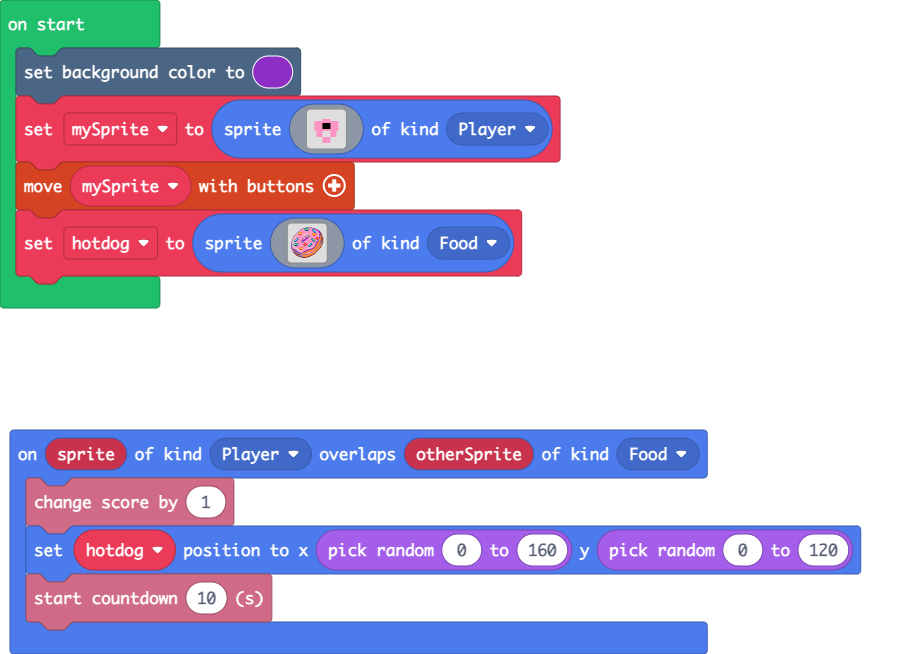
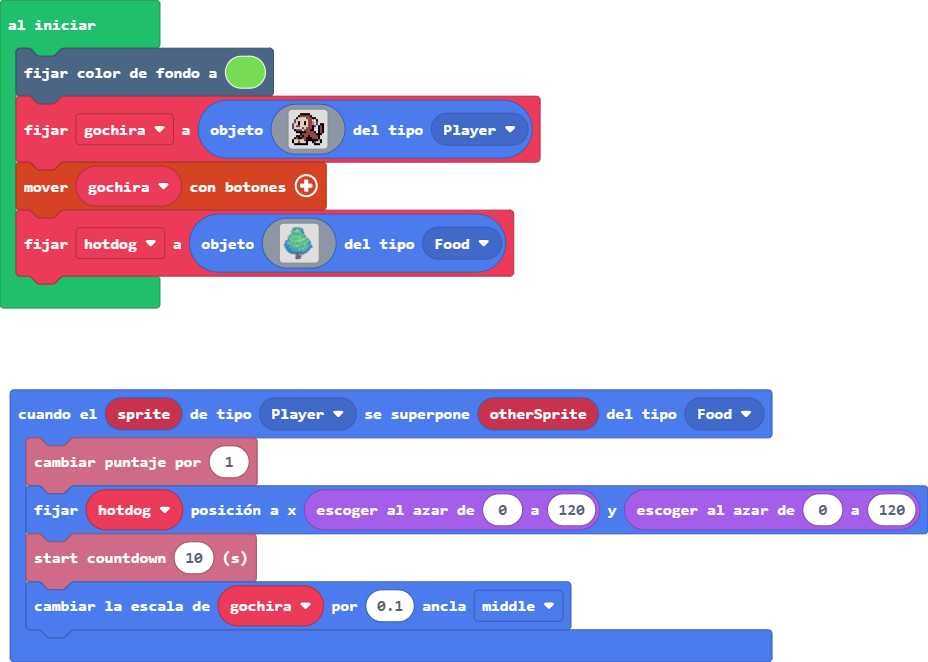
Actualizar pxt.json, main.blocks, main.ts, images.g.ts

diff --git a/main.ts b/main.ts
@@ -1,60 +1,71 @@
 sprites.onOverlap(SpriteKind.Player, SpriteKind.Food, function (sprite, otherSprite) {
     info.changeScoreBy(1)
-    hotdog.setPosition(randint(0, 160), randint(0, 120))
+    hotdog.setPosition(randint(0, 120), randint(0, 120))
     info.startCountdown(10)
+    gochira.changeScale(0.1, ScaleAnchor.Middle)
 })
 let hotdog: Sprite = null
-scene.setBackgroundColor(10)
-let mySprite = sprites.create(img`
-    . . . . . . . . . . . . . . . . 
-    . . . . . . . . . . . . . . . . 
-    . . . . . . . . . . . . . . . . 
-    . . . . . . 3 3 3 3 . . . . . . 
-    . . 3 3 3 3 3 3 3 3 3 3 3 3 . . 
-    . . 3 3 3 3 f f f f 3 3 3 3 . . 
-    . . 3 3 3 3 f f f f 3 3 3 3 . . 
-    . . 3 3 3 3 f f f f 3 3 3 3 . . 
-    . . 3 3 3 3 3 3 3 3 3 3 3 3 . . 
-    . . . 3 3 3 . . . . 3 3 3 . . . 
-    . . . 3 3 3 . . . . 3 3 3 . . . 
-    . . . 3 3 3 . . . . 3 3 3 . . . 
-    . . . . . . 3 3 3 3 . . . . . . 
-    . . . . . . 3 3 3 3 . . . . . . 
-    . . . . . . 3 3 3 3 . . . . . . 
-    . . . . . . . . . . . . . . . . 
+let gochira: Sprite = null
+scene.setBackgroundColor(7)
+gochira = sprites.create(img`
+    . . . . f f f f f . . . . . . . 
+    . . . f e e e e e f . . . . . . 
+    . . f d d d d e e e f f . . . . 
+    . c d d d d d d e e d d f . . . 
+    . c d f d d f d e e b d c . . . 
+    c d d f d d f d e e b d c . f f 
+    c d e e d d d d e e f c . f e f 
+    c d d d d c d e e e f . . f e f 
+    . f c c c d e e e f f . . f e f 
+    . . f f f f f e e e e f . f e f 
+    . . . . f e e e e e e e f f f . 
+    . . f f e f e e f e e e e f . . 
+    . f e f f e e f f f e e e f . . 
+    f d d b d d c f f f f f f b f . 
+    f d d c d d d f . . f c d d f . 
+    . f f f f f f f . . . f f f . . 
     `, SpriteKind.Player)
-controller.moveSprite(mySprite)
+controller.moveSprite(gochira)
 hotdog = sprites.create(img`
-    ..............bbbbbbb...........
-    ...........bb66663333baa........
-    .........bb3367776333663aa......
-    ........b33333888333389633aa....
-    .......b3333333333333389633aa...
-    ......b34443333333333338633bae..
-    .....b3455433333333334443333ae..
-    ....b33322333dddd3333455233daee.
-    ...b3d333333dd3bbbb33322333dabe.
-    ..b3d333333d3bb33bb33333333da4e.
-    ..bd33333333b33aab3333333223a4ee
-    .b3d3663333b33aab33366332442b4ee
-    .bd3b983333a3aa3333387633ee3b4ee
-    .bd6983333baaa333333387633bb4bee
-    b3d6833333bba333333333863ba44ebe
-    bdd3333333bb3333333333333a44bebe
-    add666633333322333366333ba44bbbe
-    ad67776333332442336983d3a444b4e.
-    add888b333333ee3369833d3a44b44e.
-    add333333333333336833d3a444b4e..
-    a3dd3333344433333dddd3a444b44e..
-    ab33ddd325543333dd33aa444b44e...
-    .eabb3dd32233333baaa4444b44e....
-    .ebabb3d333d33baa444443b44e.....
-    ..ebaab3ddd3aaa4444433b44e......
-    ..eebbaab33a44444333b444e.......
-    ...eeebbaab444b333b4444e........
-    ....ebeeebbbbbbbb4444ee.........
-    .....eebbbb44444444ee...........
-    .......eeebbb444eee.............
-    ..........eeeeee................
-    ................................
+    ................86..................
+    ...........6688867886...............
+    ...........8666877688868............
+    ............868777767768............
+    .........688667777776688............
+    ........67767777777778666...........
+    .........6776667767666868...........
+    ..........866667667677688...........
+    .........8666666666667778...........
+    ........667766666666666676..........
+    .......67766667666776667776.........
+    ......886667776676777666688.........
+    .....67766777667767777666768........
+    ....6776666666777667776666776.......
+    .....8667776667766676677776776......
+    ......8777666666667776777776688.....
+    ....6887766776677677777777776776....
+    ..8866666677767777777777766666778...
+    .86666666777667767777766666776668...
+    ..88677666666777677677666667776668..
+    ..86776677666666666666667776666668..
+    886666677766667666666776677766668...
+    6668666676667766767767766677666668..
+    88866666666777677677667666666776668.
+    .86668866666766776776666667766666668
+    .86688666666666776666667667776666688
+    .668866666666666666666677666666688..
+    ..8866686666666666677667776666668...
+    ...866886666666666677667776666668...
+    ...86886668666666667666666666888....
+    ....88866886686666666666666668......
+    ......86886668666866668666868.......
+    ......88866688668866688866888.......
+    ........8888888688888ce868..........
+    ..............e88e88.ec.8...........
+    ...............eeee..e..............
+    ...............ceef.ce..............
+    ...............ceefcec..............
+    ...............feefce...............
+    ...............fceeec...............
+    ...............ffceec...............
     `, SpriteKind.Food)

diff --git a/images.g.ts b/images.g.ts
@@ -1,4 +1,4 @@
-// Auto-generated code. Do not edit.
+// Código generado automáticamente. No editar.
 namespace myImages {
 
     helpers._registerFactory("image", function(name: string) {
@@ -118,5 +118,12 @@ ab33ddd325543333dd33aa444b44e...
         return null;
     })
 
+    helpers._registerFactory("song", function(name: string) {
+        switch(helpers.stringTrim(name)) {
+
+        }
+        return null;
+    })
+
 }
-// Auto-generated code. Do not edit.
+// Código generado automáticamente. No editar.
